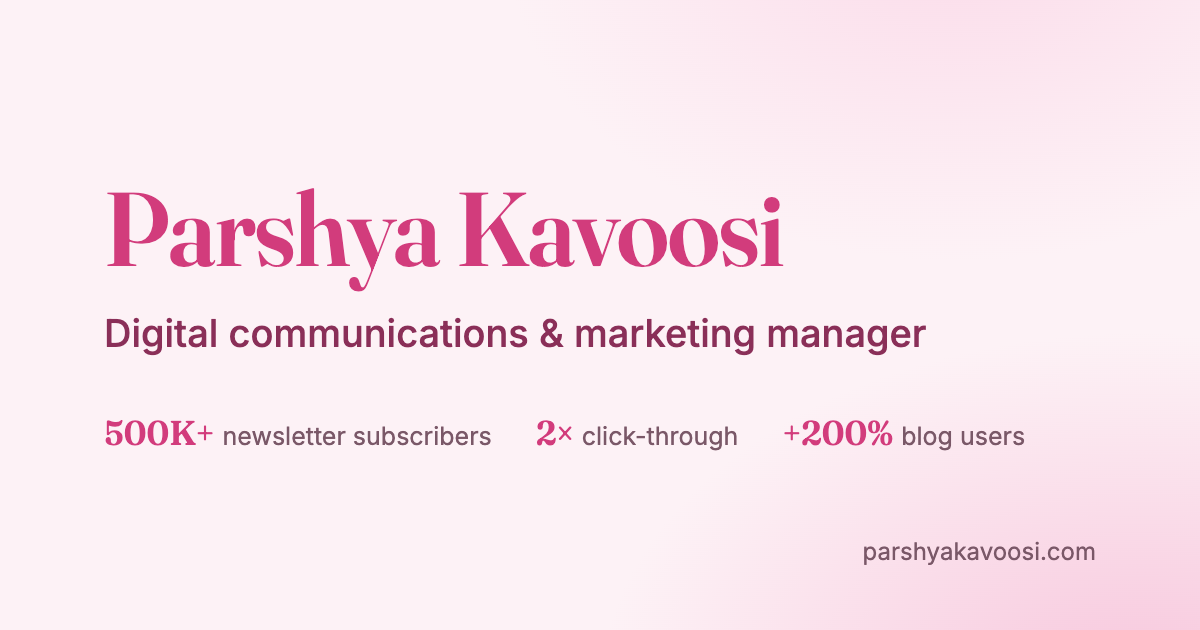
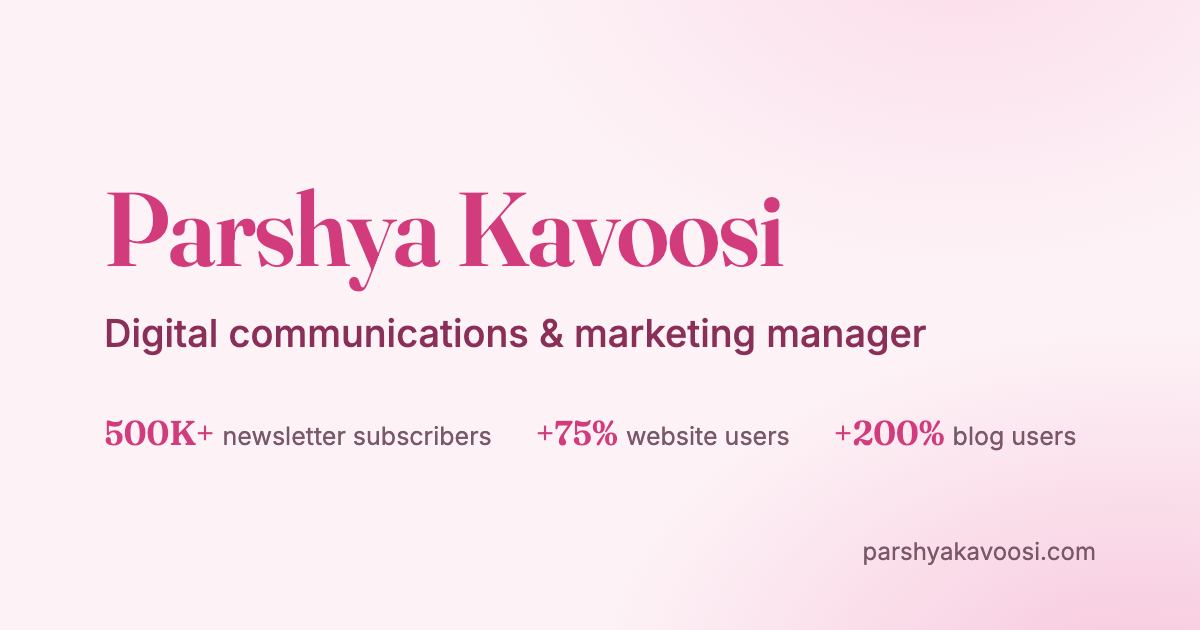
Feature the +75% website users stat in the link preview
Swap 2x click-through for +75% website users on the share image, and
version its URL so iMessage and other apps fetch the new one.

Changed region(s): [[0.4317, 0.6635, 0.8942, 0.7238]]

diff --git a/resume.html b/resume.html
@@ -15,12 +15,12 @@
 <meta property="og:title" content="Resume · Parshya Kavoosi, Digital Communications &amp; Marketing Manager">
 <meta property="og:description" content="Resume of Parshya Kavoosi: six years at Candid running a 500K+ subscriber newsletter, leading the candid.org relaunch, and growing blog users 200% through SEO.">
 <meta property="og:url" content="https://parshyakavoosi.com/resume.html">
-<meta property="og:image" content="https://parshyakavoosi.com/img/og.png">
+<meta property="og:image" content="https://parshyakavoosi.com/img/og.png?v=2">
 <meta property="og:image:width" content="1200">
 <meta property="og:image:height" content="630">
 <meta property="og:image:alt" content="Parshya Kavoosi, digital communications and marketing manager">
 <meta name="twitter:card" content="summary_large_image">
-<script type="application/ld+json">{"@context": "https://schema.org", "@type": "Person", "name": "Parshya Kavoosi", "jobTitle": "Digital Communications & Marketing Manager", "url": "https://parshyakavoosi.com/", "image": "https://parshyakavoosi.com/img/og.png", "address": {"@type": "PostalAddress", "addressLocality": "Richmond", "addressRegion": "VA", "addressCountry": "US"}, "sameAs": ["https://www.linkedin.com/in/parshya-kavoosi/"], "knowsAbout": ["Digital communications", "Email marketing", "Content strategy", "SEO", "Social media", "Nonprofit marketing"]}</script>
+<script type="application/ld+json">{"@context": "https://schema.org", "@type": "Person", "name": "Parshya Kavoosi", "jobTitle": "Digital Communications & Marketing Manager", "url": "https://parshyakavoosi.com/", "image": "https://parshyakavoosi.com/img/og.png?v=2", "address": {"@type": "PostalAddress", "addressLocality": "Richmond", "addressRegion": "VA", "addressCountry": "US"}, "sameAs": ["https://www.linkedin.com/in/parshya-kavoosi/"], "knowsAbout": ["Digital communications", "Email marketing", "Content strategy", "SEO", "Social media", "Nonprofit marketing"]}</script>
 <link rel="preconnect" href="https://fonts.googleapis.com">
 <link rel="preconnect" href="https://fonts.gstatic.com" crossorigin>
 <link href="https://fonts.googleapis.com/css2?family=Fraunces:opsz,wght@9..144,400;9..144,600&family=Inter:wght@400;500;600&display=swap" rel="stylesheet">

diff --git a/index.html b/index.html
@@ -15,12 +15,12 @@
 <meta property="og:title" content="Parshya Kavoosi · Digital Communications &amp; Marketing Manager">
 <meta property="og:description" content="Parshya Kavoosi is a digital communications and marketing manager with six years of nonprofit experience at Candid, growing newsletter, website, and blog audiences.">
 <meta property="og:url" content="https://parshyakavoosi.com/">
-<meta property="og:image" content="https://parshyakavoosi.com/img/og.png">
+<meta property="og:image" content="https://parshyakavoosi.com/img/og.png?v=2">
 <meta property="og:image:width" content="1200">
 <meta property="og:image:height" content="630">
 <meta property="og:image:alt" content="Parshya Kavoosi, digital communications and marketing manager">
 <meta name="twitter:card" content="summary_large_image">
-<script type="application/ld+json">{"@context": "https://schema.org", "@type": "Person", "name": "Parshya Kavoosi", "jobTitle": "Digital Communications & Marketing Manager", "url": "https://parshyakavoosi.com/", "image": "https://parshyakavoosi.com/img/og.png", "address": {"@type": "PostalAddress", "addressLocality": "Richmond", "addressRegion": "VA", "addressCountry": "US"}, "sameAs": ["https://www.linkedin.com/in/parshya-kavoosi/"], "knowsAbout": ["Digital communications", "Email marketing", "Content strategy", "SEO", "Social media", "Nonprofit marketing"]}</script>
+<script type="application/ld+json">{"@context": "https://schema.org", "@type": "Person", "name": "Parshya Kavoosi", "jobTitle": "Digital Communications & Marketing Manager", "url": "https://parshyakavoosi.com/", "image": "https://parshyakavoosi.com/img/og.png?v=2", "address": {"@type": "PostalAddress", "addressLocality": "Richmond", "addressRegion": "VA", "addressCountry": "US"}, "sameAs": ["https://www.linkedin.com/in/parshya-kavoosi/"], "knowsAbout": ["Digital communications", "Email marketing", "Content strategy", "SEO", "Social media", "Nonprofit marketing"]}</script>
 <link rel="preconnect" href="https://fonts.googleapis.com">
 <link rel="preconnect" href="https://fonts.gstatic.com" crossorigin>
 <link href="https://fonts.googleapis.com/css2?family=Fraunces:opsz,wght@9..144,400;9..144,600&family=Inter:wght@400;500;600&display=swap" rel="stylesheet">

diff --git a/portfolio.html b/portfolio.html
@@ -20,7 +20,7 @@
 <meta property="og:title" content="Portfolio · Parshya Kavoosi">
 <meta property="og:description" content="Blog posts, social media carousels, and campaign flyers by Parshya Kavoosi, digital communications and marketing manager, from six years at Candid.">
 <meta property="og:url" content="https://parshyakavoosi.com/portfolio.html">
-<meta property="og:image" content="https://parshyakavoosi.com/img/og.png">
+<meta property="og:image" content="https://parshyakavoosi.com/img/og.png?v=2">
 <meta property="og:image:width" content="1200">
 <meta property="og:image:height" content="630">
 <meta property="og:image:alt" content="Parshya Kavoosi, digital communications and marketing manager">

diff --git a/contact.html b/contact.html
@@ -15,7 +15,7 @@
 <meta property="og:title" content="Contact · Parshya Kavoosi">
 <meta property="og:description" content="Get in touch with Parshya Kavoosi, a digital communications and marketing manager who turns complex topics into stories people want to read.">
 <meta property="og:url" content="https://parshyakavoosi.com/contact.html">
-<meta property="og:image" content="https://parshyakavoosi.com/img/og.png">
+<meta property="og:image" content="https://parshyakavoosi.com/img/og.png?v=2">
 <meta property="og:image:width" content="1200">
 <meta property="og:image:height" content="630">
 <meta property="og:image:alt" content="Parshya Kavoosi, digital communications and marketing manager">
